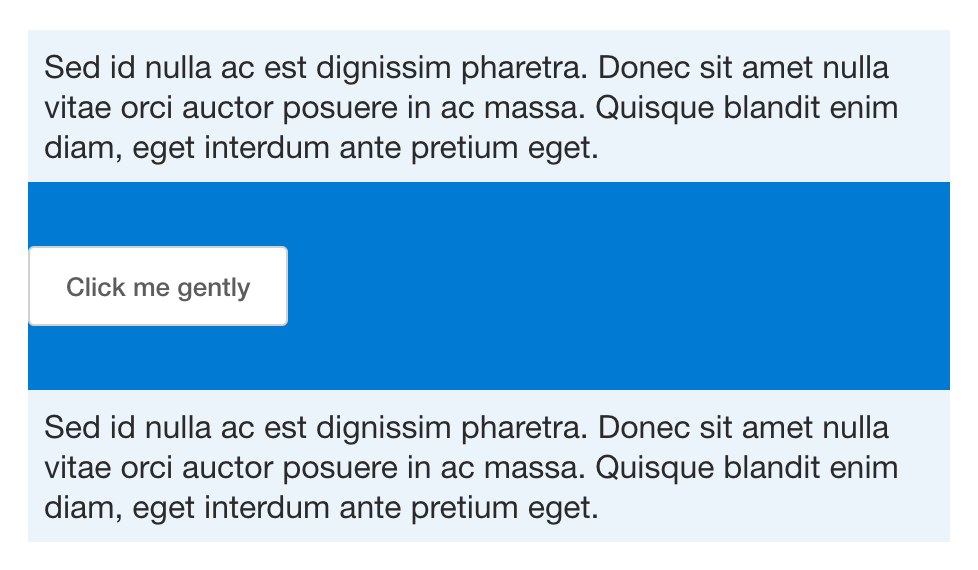
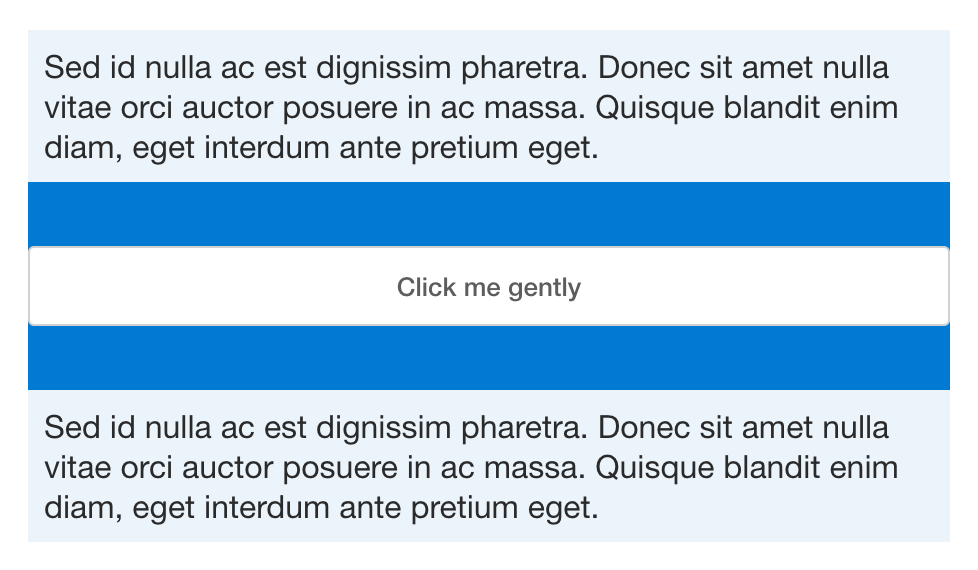
update stack examples

Changed region(s): [[0.0613, 0.4175, 0.9816, 0.5965]]

diff --git a/index.html b/index.html
@@ -204,7 +204,7 @@
               import { Stack, SpaceSizes } from '@securityscorecard/design-system';
 
               &lt;Stack gap={SpaceSizes.lg}
-                justify={stretch}
+                justify="flex-start"
               &gt;
                 &lt;div&gt;...&lt;/div&gt;
                 &lt;button&gt;...&lt;/button&gt;
